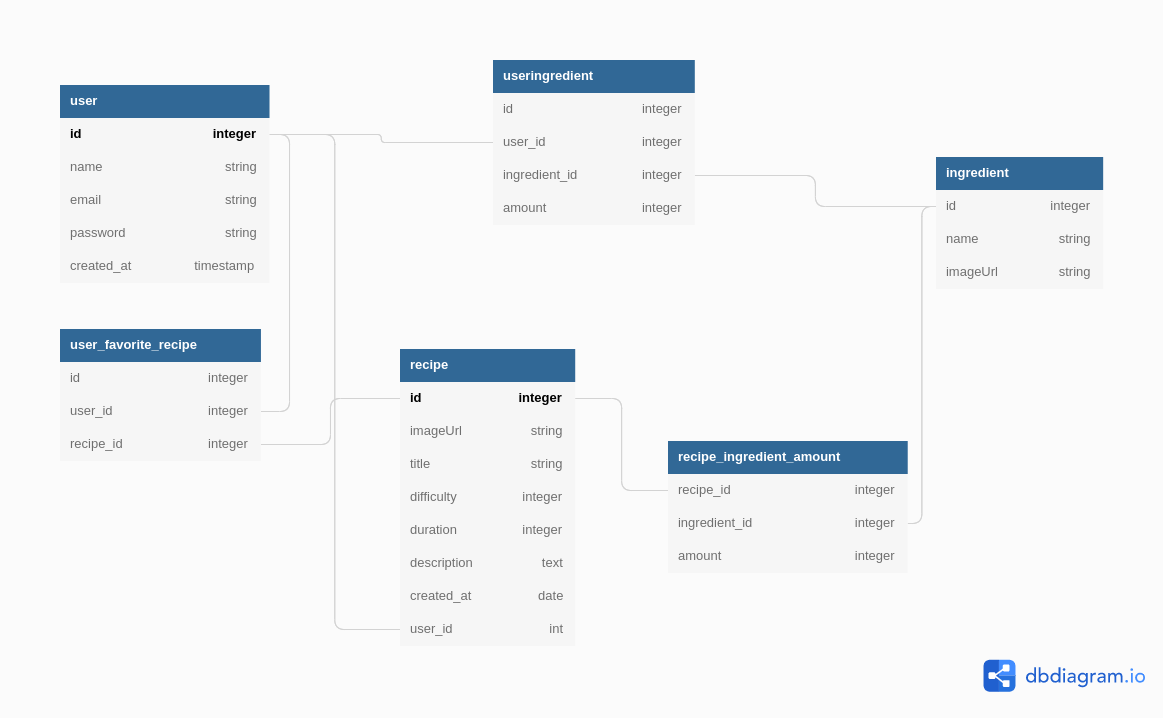
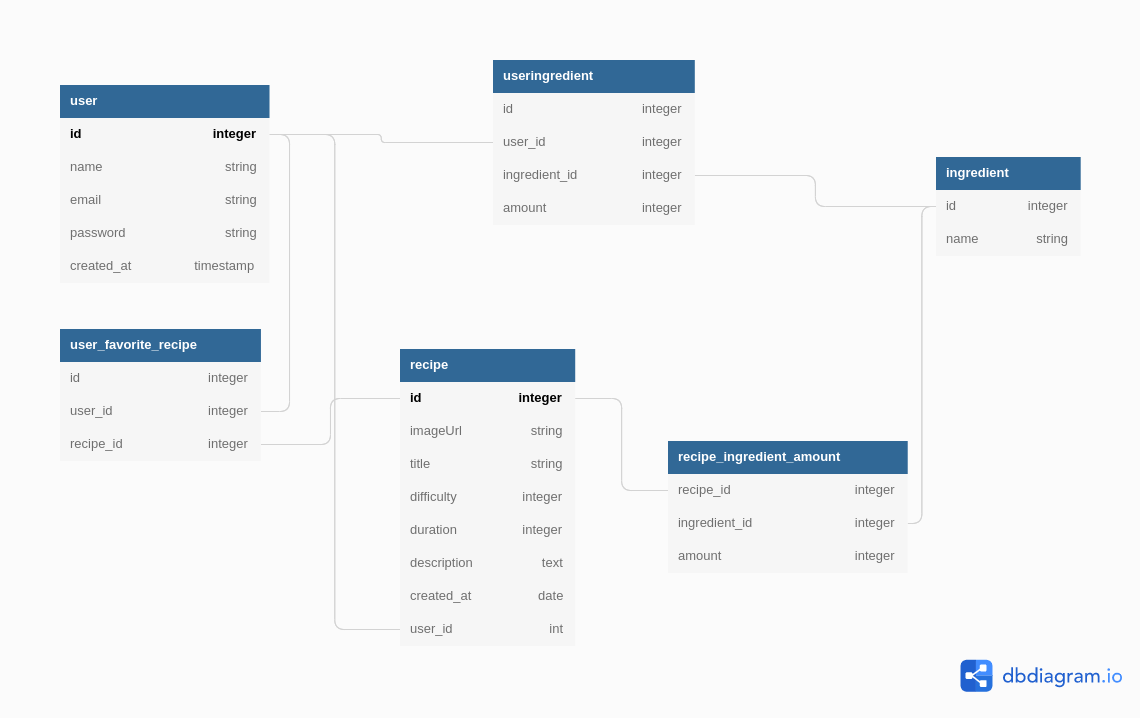
"New recipe" router
Added new router "/recipes/new" for create(post) new recipe

Modified ingredient model:
    - removed imageUrl

Modified DB picture

diff --git a/routers/recipes.js b/routers/recipes.js
@@ -1,8 +1,8 @@
 const { Router } = require("express");
 const Recipes = require("../models").recipe;
 const User = require("../models").user;
-const Ria = require("../models").recipeingredientamount;
-const ingredient = require("../models").ingredient;
+const Recipeingredientamount = require("../models").recipeingredientamount;
+const Ingredient = require("../models").ingredient;
 const authMiddleWare = require("../auth/middleware");
 
 const router = new Router();
@@ -29,7 +29,7 @@ router.get("/:id", async (req, res, next) => {
   try {
     const { id } = req.params;
     // console.log("this is id from params", id);
-    const recipe = await Recipes.findByPk(id, { include: [ingredient] });
+    const recipe = await Recipes.findByPk(id, { include: [Ingredient] });
     if (!recipe) {
       res.status(404).send("Something went wrong, recipe not found");
       return;
@@ -42,22 +42,44 @@ router.get("/:id", async (req, res, next) => {
 });
 
 // POST a new recipe
-
+// test POST -c "application/json" http://localhost:4000/recipes/new [postNewRecipeTest.json]
 router.post("/new", authMiddleWare, async (req, res, next) => {
   const user = await User.findByPk(req.userId);
   if (user === null) {
     return res.status(404).send({ message: "This user does not exist" });
   }
-  const { imageUrl, title, difficulty, duration, description } = req.body;
+  const { imageUrl, title, difficulty, duration, description, ingredients } =
+    req.body;
   const recipe = await Recipes.create({
     imageUrl,
     title,
     difficulty,
     duration,
     description,
-    // add list of ingredients to recipe-ingredient-amount-table
-    // userId: user.id,
+    userId: user.id,
+    userId: 1,
   });
+  //   console.log(ingredients);
+  for (const ingredient of ingredients) {
+    let existingIngredient = await Ingredient.findOne({
+      where: { name: ingredient.name },
+    });
+    // console.log(ingredient);
+    // console.log(existingIngredient);
+    if (existingIngredient === null) {
+      //   console.log("creating ", ingredient.name);
+      existingIngredient = await Ingredient.create({
+        name: ingredient.name,
+      });
+    }
+
+    // console.log("creating connection");
+    const addRecipeIngredient = await Recipeingredientamount.create({
+      recipeId: recipe.id,
+      ingredientId: existingIngredient.id,
+      amount: ingredient.amount,
+    });
+  }
   return res.status(201).send({ message: "Recipe created", recipe });
 });
 

diff --git a/seeders/20220420083641-ingredients.js b/seeders/20220420083641-ingredients.js
@@ -6,66 +6,48 @@ module.exports = {
       "ingredients",
       [
         {
-          id: 1,
           name: "potato",
-          imageUrl: "",
           createdAt: new Date(),
           updatedAt: new Date(),
         },
         {
-          id: 2,
           name: "carrot",
-          imageUrl: "",
           createdAt: new Date(),
           updatedAt: new Date(),
         },
         {
-          id: 3,
           name: "pickles",
-          imageUrl: "",
           createdAt: new Date(),
           updatedAt: new Date(),
         },
         {
-          id: 4,
           name: "canned green peas",
-          imageUrl: "",
           createdAt: new Date(),
           updatedAt: new Date(),
         },
         {
-          id: 5,
           name: "egg",
-          imageUrl: "",
           createdAt: new Date(),
           updatedAt: new Date(),
         },
         {
-          id: 6,
           name: "chicken breasts",
-          imageUrl: "",
           createdAt: new Date(),
           updatedAt: new Date(),
         },
         {
-          id: 7,
           name: "sour cream",
-          imageUrl: "",
           createdAt: new Date(),
           updatedAt: new Date(),
         },
         {
-          id: 8,
           name: "mayonnaise",
-          imageUrl: "",
           createdAt: new Date(),
           updatedAt: new Date(),
         },
 
         {
-          id: 9,
           name: "salt",
-          imageUrl: "",
           createdAt: new Date(),
           updatedAt: new Date(),
         },

diff --git a/migrations/20220419192927-create-ingredient.js b/migrations/20220419192927-create-ingredient.js
@@ -8,9 +8,6 @@ module.exports = {
         primaryKey: true,
         type: Sequelize.INTEGER,
       },
-      imageUrl: {
-        type: Sequelize.STRING,
-      },
       name: {
         type: Sequelize.STRING,
         allowNull: false,

diff --git a/models/ingredient.js b/models/ingredient.js
@@ -27,7 +27,6 @@ module.exports = (sequelize, DataTypes) => {
   }
   ingredient.init(
     {
-      imageUrl: DataTypes.STRING,
       name: {
         type: DataTypes.STRING,
         allowNull: false,
